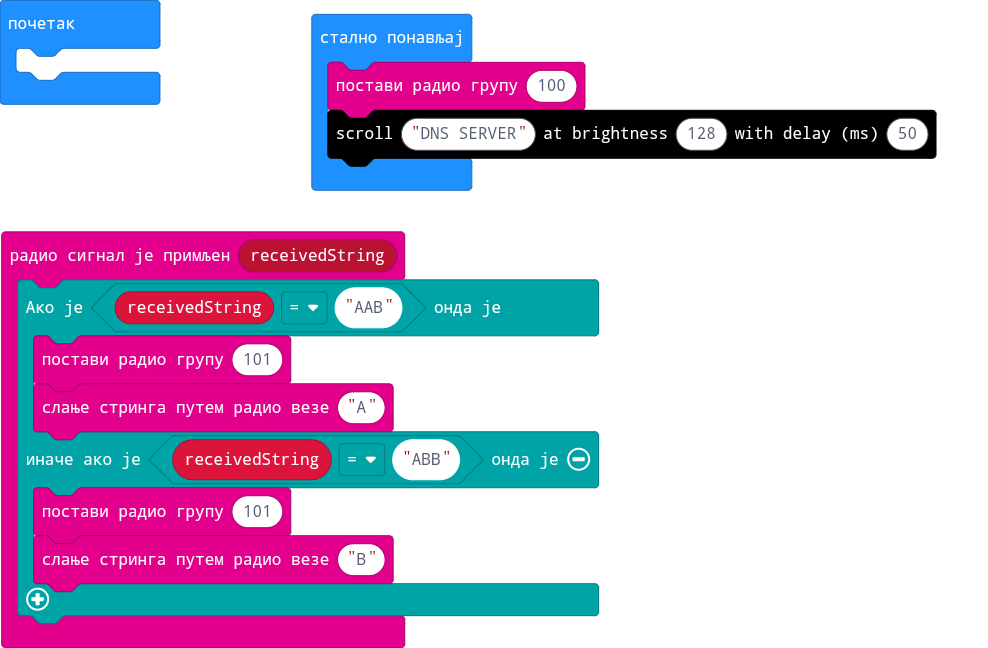
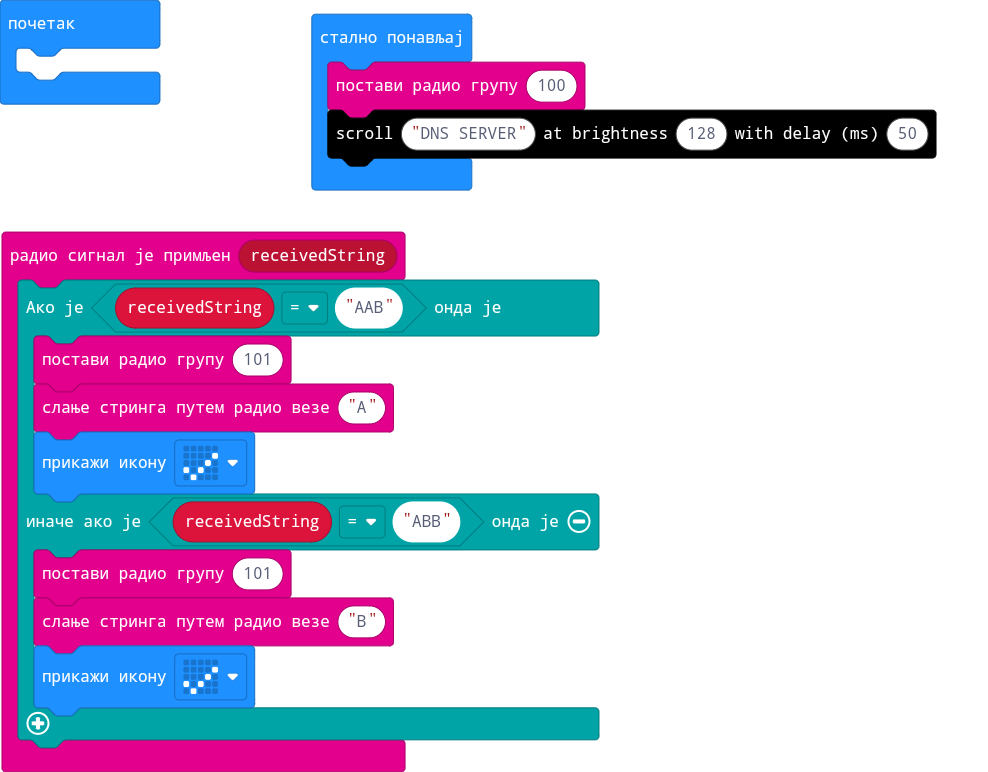
Ажурирање main.blocks, main.ts

diff --git a/main.ts b/main.ts
@@ -2,9 +2,11 @@ radio.onReceivedString(function (receivedString) {
     if (receivedString == "AAB") {
         radio.setGroup(101)
         radio.sendString("A")
+        basic.showIcon(IconNames.Yes)
     } else if (receivedString == "ABB") {
         radio.setGroup(101)
         radio.sendString("B")
+        basic.showIcon(IconNames.Yes)
     }
 })
 basic.forever(function () {
